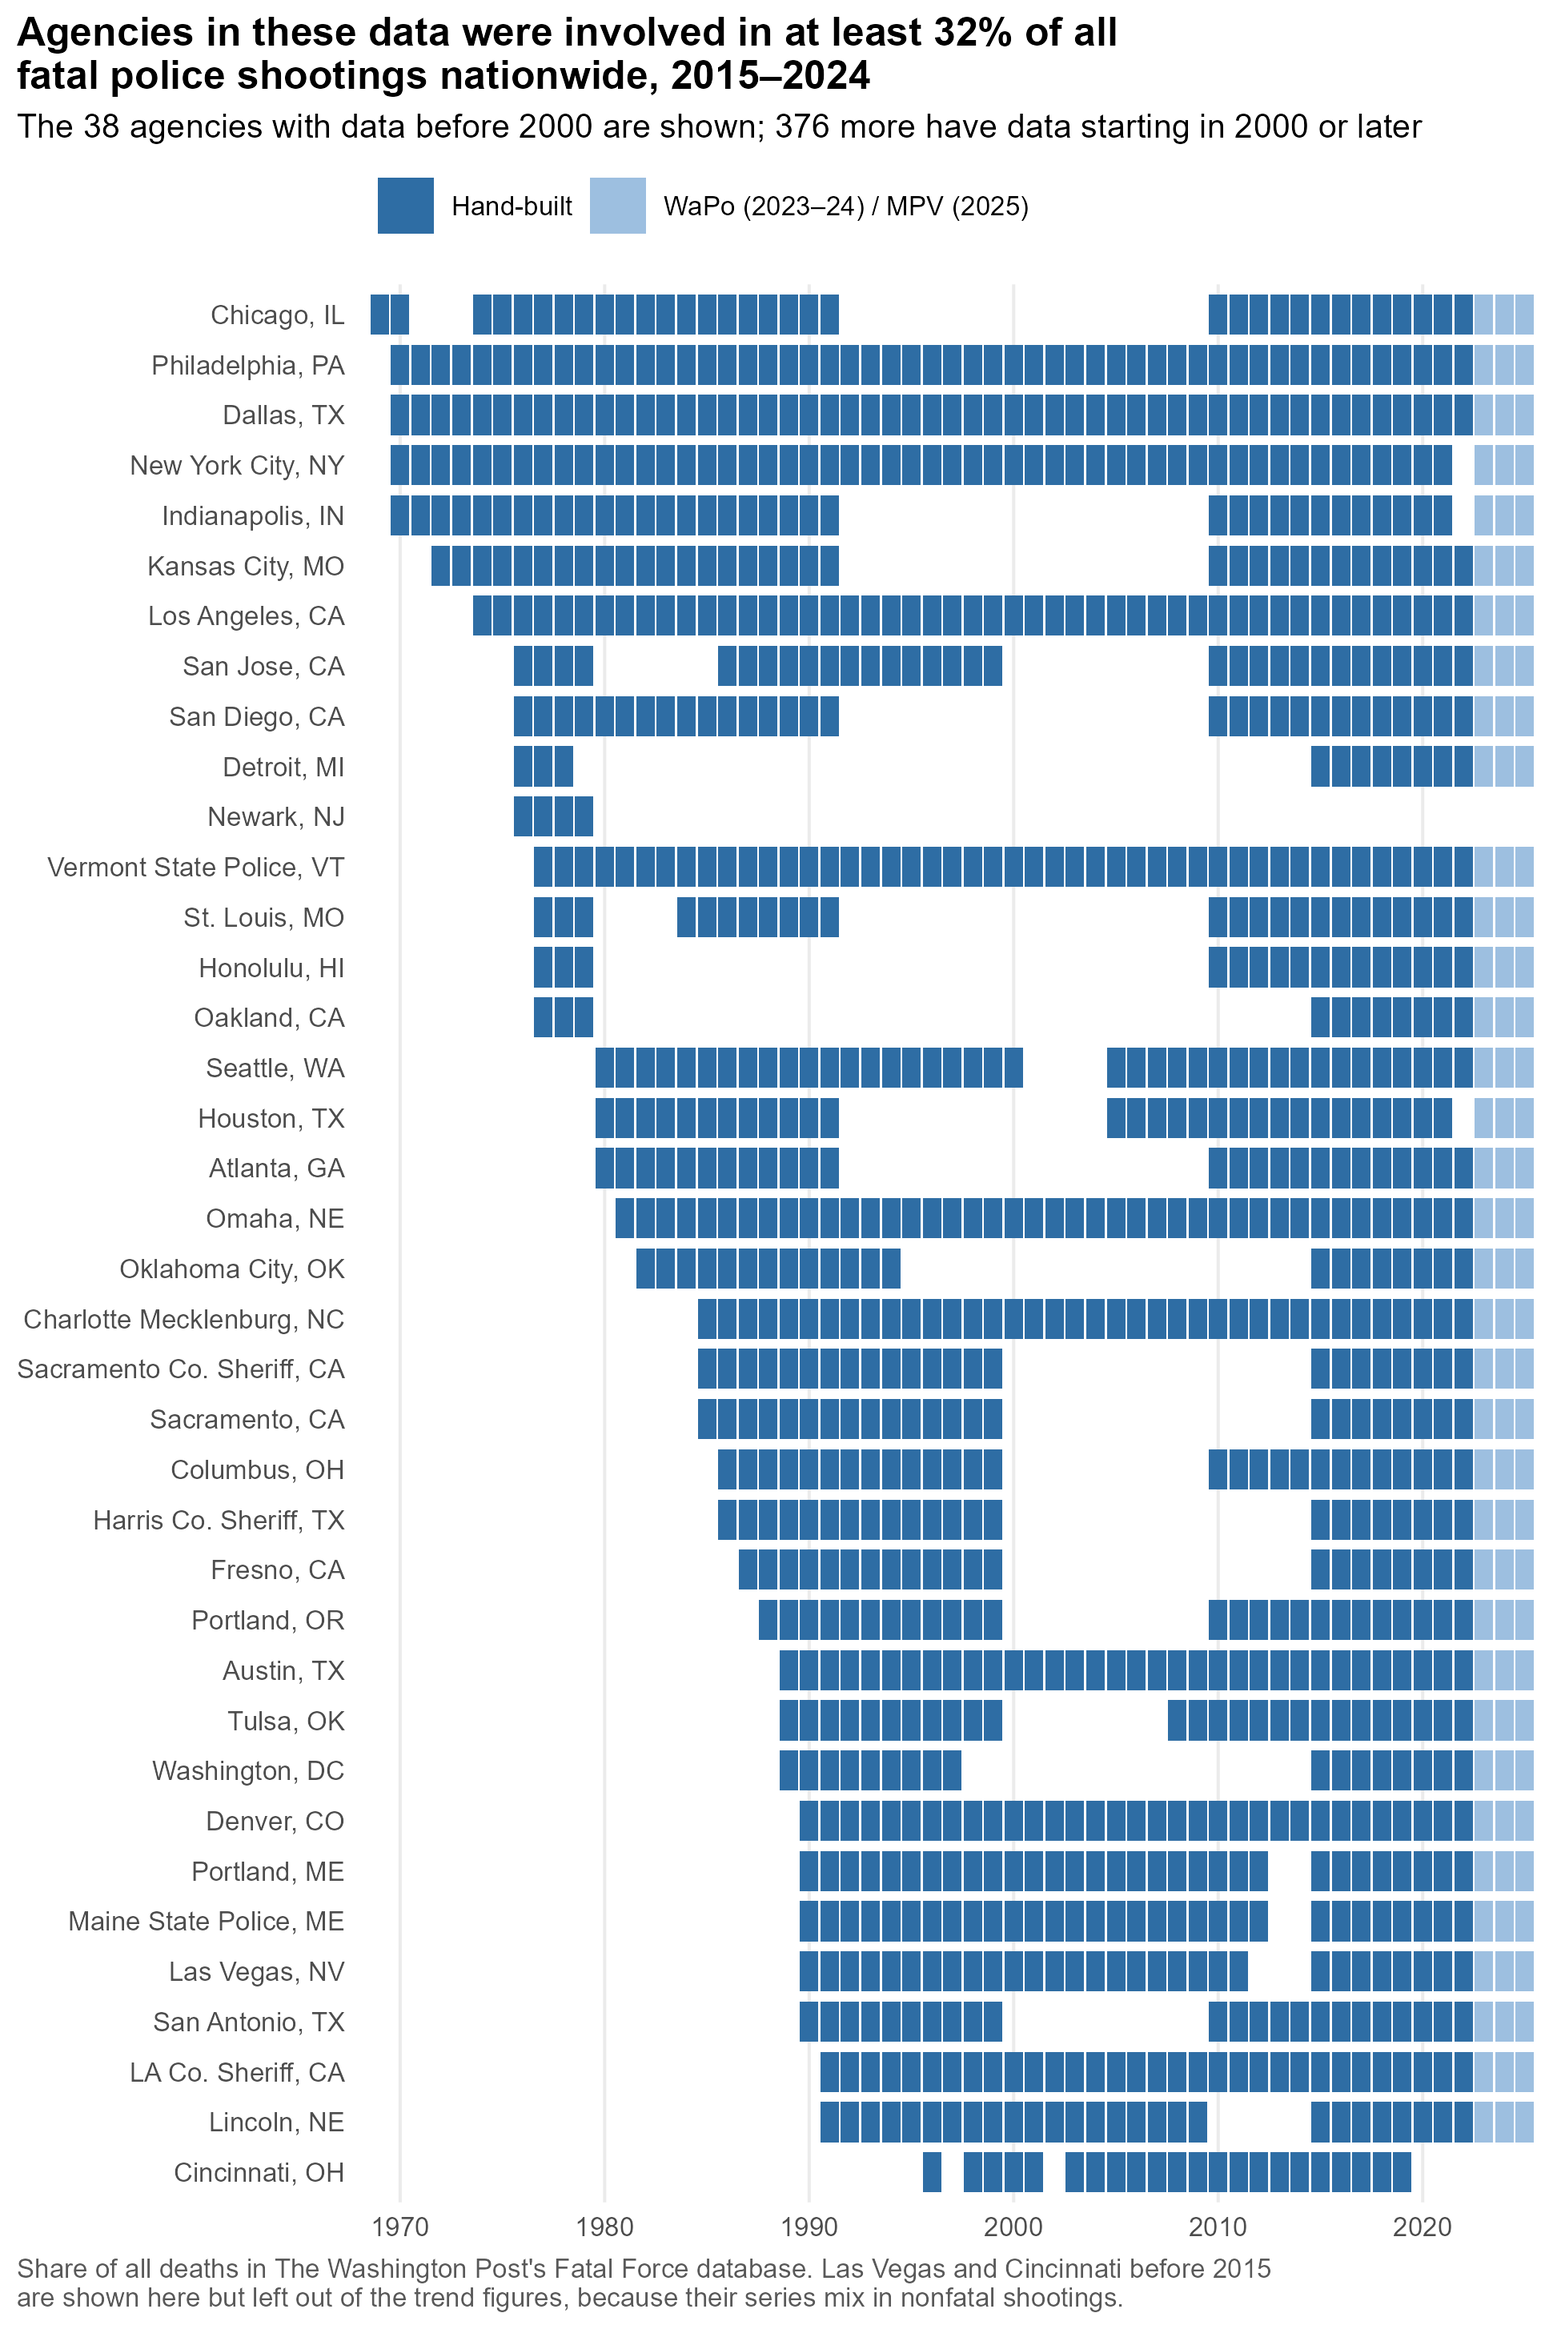
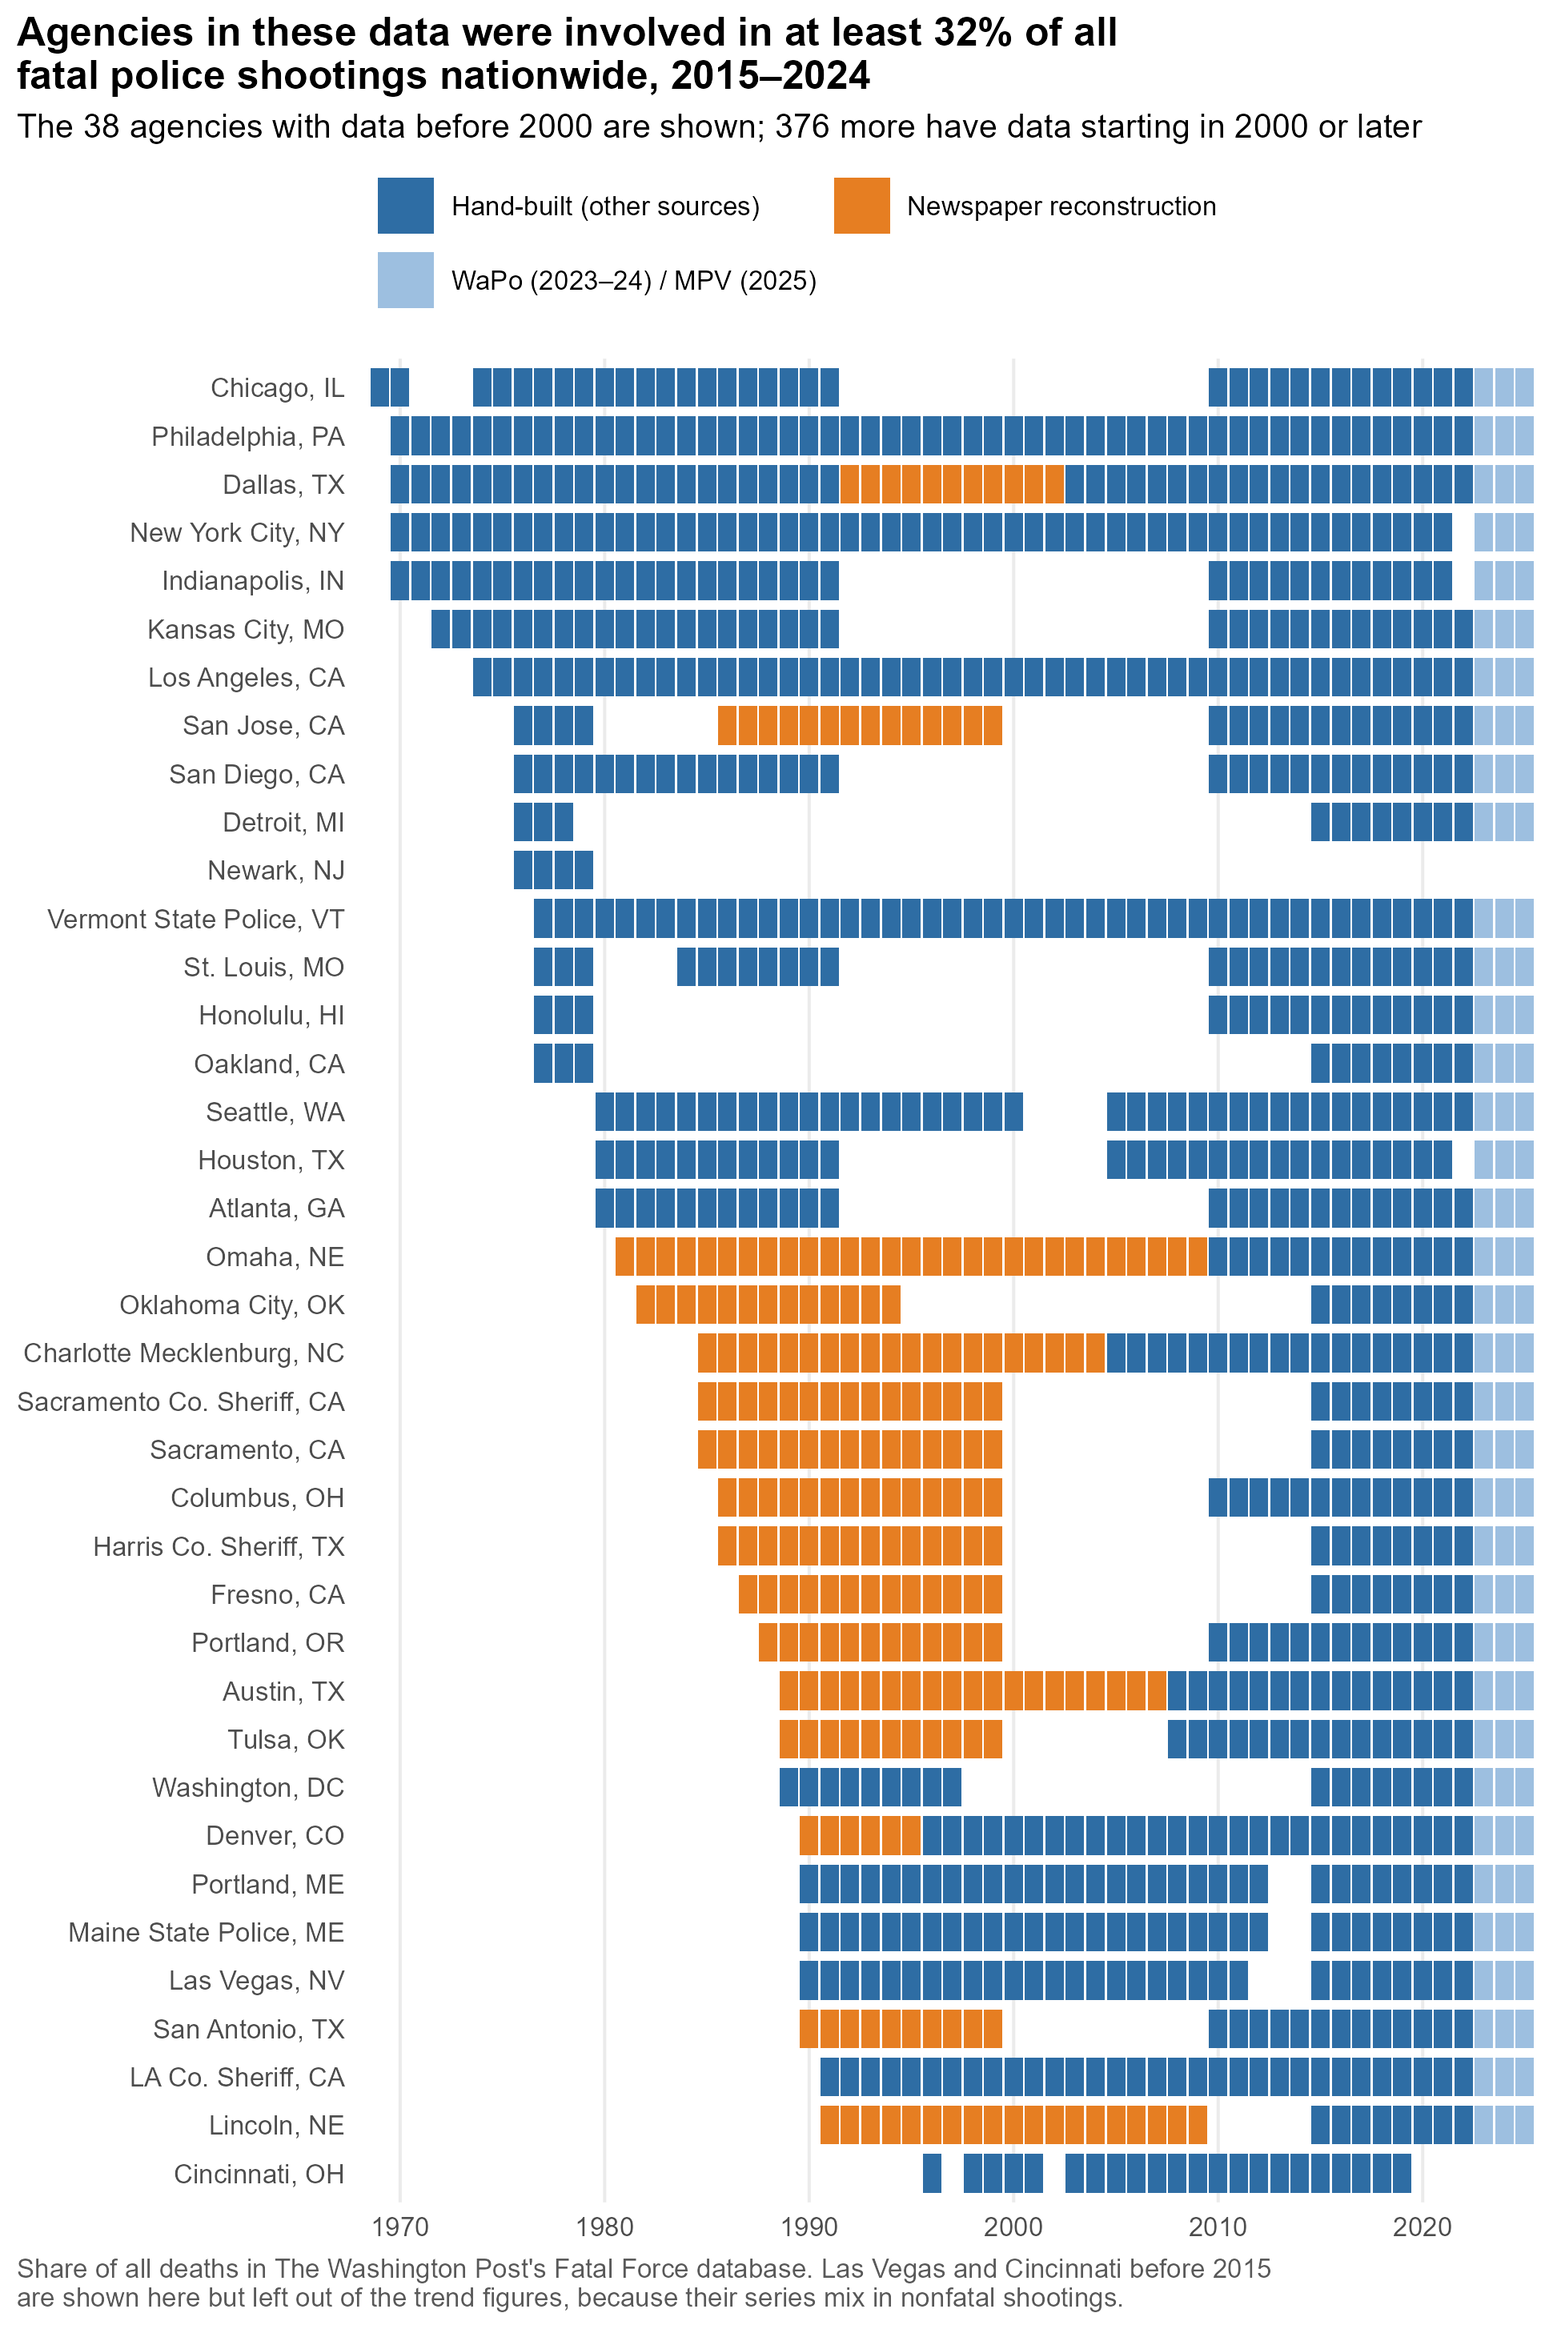
Newspaper-reconstruction exhibits: sensitivity table, SHR benchmark, source-colored tiles (#22)
* Newspaper-reconstruction exhibits: sensitivity table, SHR benchmark, source-colored tiles

- functions.R: load_newspaper_years() / flag_newspaper() flag agency-years
  rebuilt from NewsBank (case-insensitive; every reconstructed slug-year must
  land on exactly one panel row). TREND_EXCLUSIONS moved here for 06 and 07.
- 07: era_ratio_sensitivity.csv. Headline 0.68 (30 agencies); without
  newspaper years 0.50 (16, last week's figure); non-newspaper agencies 0.51
  (15); newspaper agencies alone 1.51 (15). fit_era() now sets aside all-zero
  agencies before counting clusters. Coverage tiles mark newspaper years.
  New trend_summary rows: 16 agencies, 235 agency-years, 334 deaths; 319 vs.
  SHR 348, exact in 125 of 218.
- 06: shr_benchmark.png/.csv, SHR deaths per hand-built death by decade.
- README: sensitivity paragraph, SHR benchmark figure, tile caption fix
  (38 pre-2000 agencies, not 34).

Headline unchanged.

* Add SHR upper-bound check for newspaper undercounts; temper SHR trend claim

- era_ratio_sensitivity.csv gains two rows: newspaper years raised to SHR's
  count wherever SHR is higher (an overcorrection, since SHR also counts
  off-duty killings). Headline 0.68 -> 0.67 (0.47-0.96); newspaper agencies
  1.51 -> 1.36 (0.80-2.31).
- README: report the bound; note that the SHR-vs-hand-built decline after
  2000 mixes worse reporting with a changing agency set.

---------

Changed region(s): [[0.0, 0.0619, 0.9846, 0.9278]]

diff --git a/README.md b/README.md
@@ -54,12 +54,14 @@ Some series are left out because they mix in nonfatal shootings:
 
 These are raw counts, not rates per resident, and population change could push the per-resident comparison either way. Some of these cities grew; others, like St. Louis and Philadelphia, shrank. The years observed in each era also vary by agency (see the table).
 
+**What the newspaper reconstructions do to the headline.** Fifteen of the 30 agencies include years rebuilt from newspapers, and 14 of them qualify only because of those years (Dallas qualifies either way). Dropping the newspaper years leaves 16 agencies and a ratio of 0.50 (95% CI 0.34–0.73). That isn't quite like-for-like, because dropping the newspaper years also trims Dallas's window; the 15 agencies without any newspaper years give nearly the same answer, 0.51 (0.34–0.76). The 15 newspaper agencies on their own come out at 1.51 (0.84–2.71). So the newspaper cities, many of them fast-growing Sun Belt departments, mostly kill more people now than before 1995. The reconstructions are floors, because a search can miss deaths but can't invent them. That pushes their early-era counts down and their ratio up. As an upper bound on that undercount, raising each newspaper year to SHR's count wherever SHR is higher (which overcorrects, since SHR also counts off-duty killings) moves the headline only to 0.67 (0.47–0.96), and the newspaper agencies to 1.36 (0.80–2.31). See [`output/tables/era_ratio_sensitivity.csv`](output/tables/era_ratio_sensitivity.csv).
+
 ![Agencies with data before 2000](output/figures/coverage_tiles.png)
 
-**Reach.** The hand-built agencies were involved in at least 32% of everyone shot and killed by police in WaPo's data, 2015–2024. It's "at least" because deaths are matched through each WaPo agency's primary ORI, so some matches are missed. The 34 agencies shown above carry the long-run record back before 2000.
+**Reach.** The hand-built agencies were involved in at least 32% of everyone shot and killed by police in WaPo's data, 2015–2024. It's "at least" because deaths are matched through each WaPo agency's primary ORI, so some matches are missed. The 38 agencies shown above carry the long-run record back before 2000; orange tiles are years rebuilt from local newspapers (see [Newspaper reconstructions](#newspaper-reconstructions)).
 
 **Sources for these numbers:**
-- Tables: [`output/tables/trend_summary.csv`](output/tables/trend_summary.csv), [`trend_index.csv`](output/tables/trend_index.csv), [`then_vs_now.csv`](output/tables/then_vs_now.csv), and [`coverage_share.csv`](output/tables/coverage_share.csv).
+- Tables: [`output/tables/trend_summary.csv`](output/tables/trend_summary.csv), [`trend_index.csv`](output/tables/trend_index.csv), [`then_vs_now.csv`](output/tables/then_vs_now.csv), [`era_ratio_sensitivity.csv`](output/tables/era_ratio_sensitivity.csv), and [`coverage_share.csv`](output/tables/coverage_share.csv).
 - Script: [`scripts/07_figures_trends.R`](scripts/07_figures_trends.R).
 
 ## How the sources compare
@@ -77,6 +79,10 @@ Where they overlap, the sources mostly agree, though FE runs higher than WaPo:
 Most agency-years are zero in both sources, so the last column, which drops agency-years where both are zero, is the tougher test. Agencies that WaPo lists under several ORIs (mostly state police) are left out of these comparisons. MPV's gap against the hand-built counts shifts over time: about 10% below in 2013–15 and 3–9% above in 2020–22. This is consistent with MPV recording a growing share of deaths over its life, and it's why the trend figures prefer WaPo where WaPo exists. [`output/tables/source_agreement.csv`](output/tables/source_agreement.csv) also compares MPV with WaPo and FE, and has each comparison restricted to the years all three sources cover (2015–2021). Agencies where the sources disagree are listed, largest gap first, in [`output/tables/source_disagreements.csv`](output/tables/source_disagreements.csv).
 
 **SHR runs well below every other source,** and the gap changes over time. Against the hand-built counts it is 10% low in 1976–89 and 20% low in the 1990s, but 43% low in 2000–09 and 35% low in 2010–22. Against WaPo, FE, and MPV it is 42–57% low (see `source_agreement.csv`). Some agencies report other homicides to SHR but not their own killings, which produces false zeros. New York filed none for most of the 2000s, and Chicago filed none after 2018, when the FBI moved to NIBRS. SHR also files a death under the reporting agency, which is sometimes the investigating agency rather than the one whose officer fired. Treat `n_shr` as a lower bound, and don't read its zeros as zero.
+
+![SHR deaths per hand-built death, by decade](output/figures/shr_benchmark.png)
+
+**SHR as a benchmark for the newspaper reconstructions.** In the agency-years both cover, the newspaper reconstructions count 319 deaths and SHR counts 348, with identical counts in 125 of 218 agency-years. SHR running a little high is what you'd expect there: it also counts off-duty killings, which the reconstructions leave out, and a newspaper search can miss a death. Against the other hand-built sources SHR runs low, and lower after 2000, but that comparison isn't of a fixed set of agencies: it grows from a few dozen big cities to 350+ agencies after 2000, and New York and Chicago drop out of SHR for long stretches. Read the decline as a mix of worse reporting and a different set of agencies. Figure: [`scripts/06_figures.R`](scripts/06_figures.R); table: [`output/tables/shr_benchmark.csv`](output/tables/shr_benchmark.csv).
 
 ![Sixteen large cities, five sources](output/figures/sixteen_cities.png)
 
